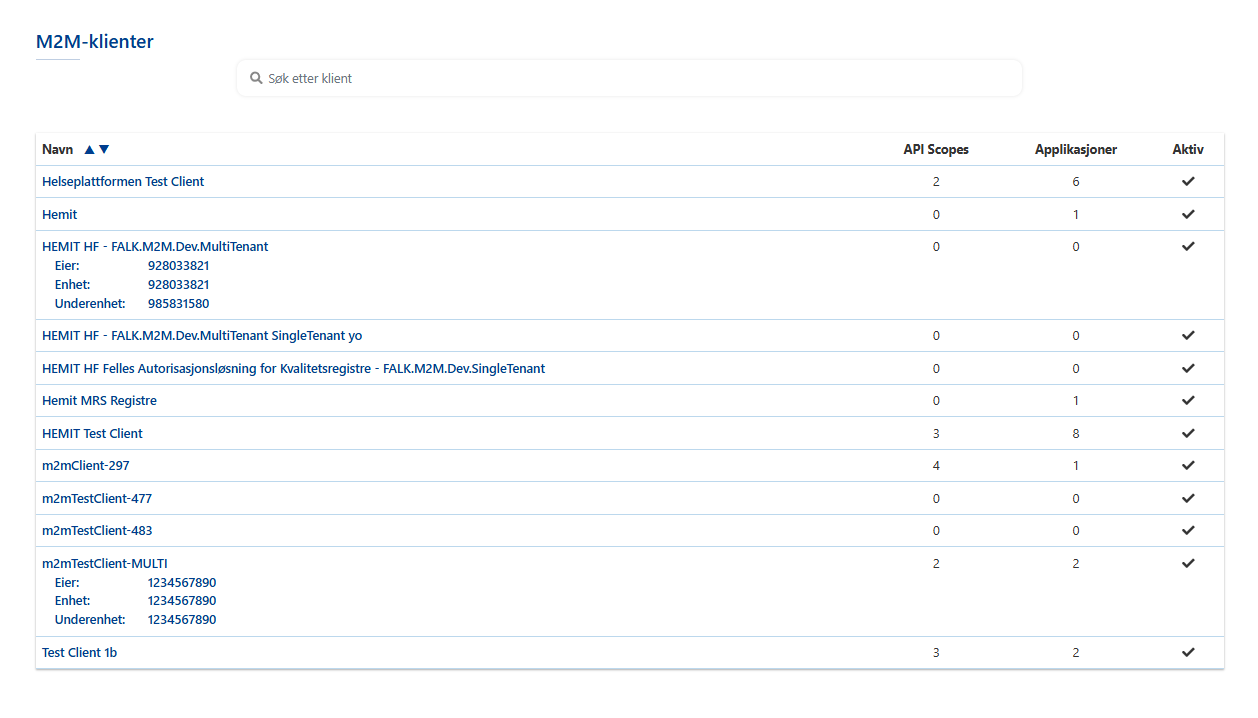
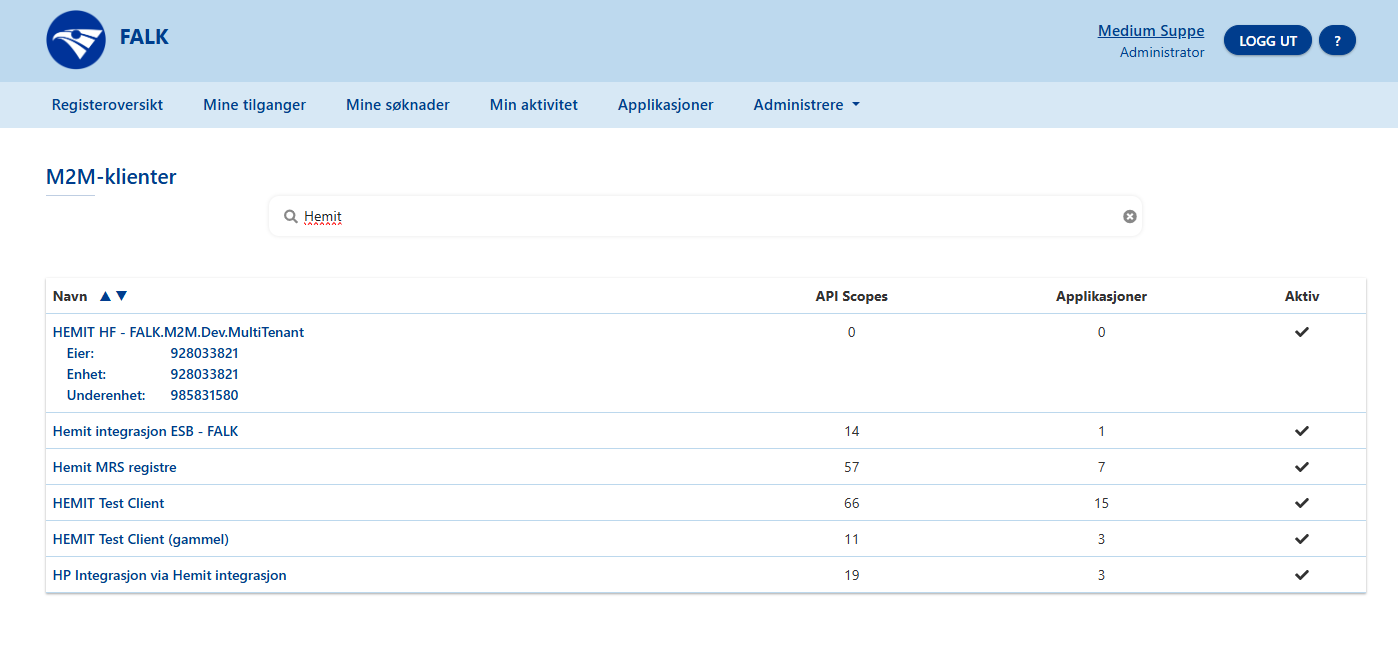
Tar ut utdaterte img og legger til info om søk M2M-klienter

diff --git a/Brukerdokumentasjon-m2m.md b/Brukerdokumentasjon-m2m.md
@@ -39,7 +39,8 @@ Det er bare Falk Administrator som kan sette opp og aktivere Maskin til Maskin-k
 ## <a name='M2M-klienter'></a>M2M-klienter
 Falk Admininistrator har et menyvalg i fanen Administrere for å se og administrere maskin til maskin-klienter: M2M-klienter. 
 
-Når du velger M2M-klienter vil du få opp siden som viser oversikten over M2M-klientene i Falk. Du kan bruke søkefeltet på siden for å søke etter en M2M-klient.  
+Når du velger M2M-klienter vil du få opp siden som viser oversikten over M2M-klientene i Falk. Du kan bruke søkefeltet på siden for å søke etter en M2M-klient. 
+Det er mulig å søke på navnet til M2M-klienten, applikasjoner som M2M-klienten har tilgang til, og organisasjonsnavnet hvis kontaktinformasjonen er registrert på M2M-klienten i FALK.  
 Hver M2M-klient blir vist som en rad i oversikten. For hver klient vises antall API-scopes og hvor mange applikasjoner M2M-klienten har tilgang til. I tillegg kan du se om en M2M-klient er aktiv.
 
 ![Oversikten M2M-klienter i Falk.](img\Falk2.5\m2m-klienter.png)
